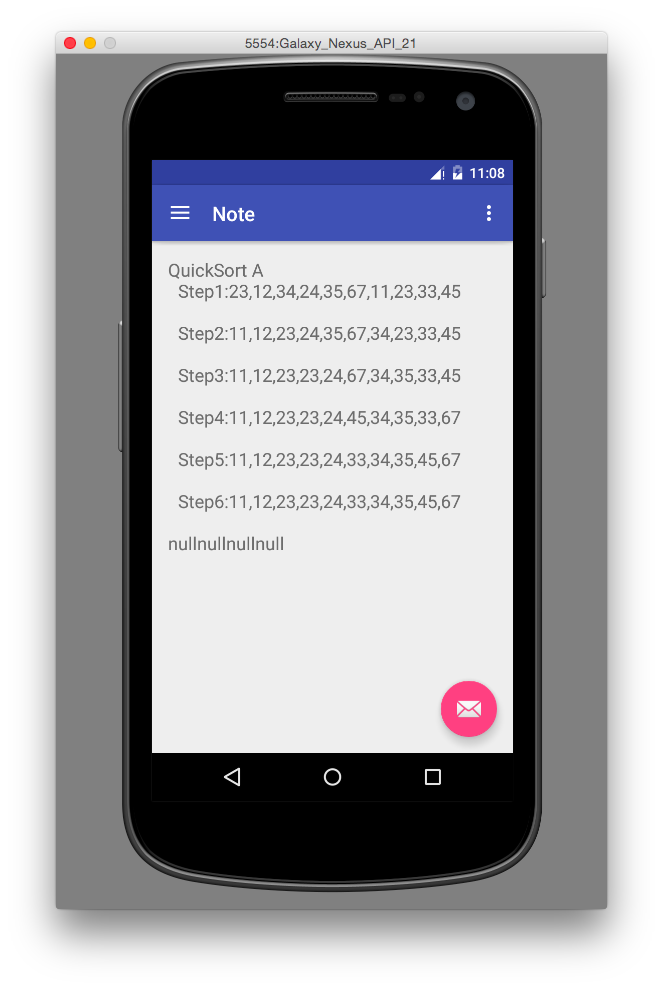
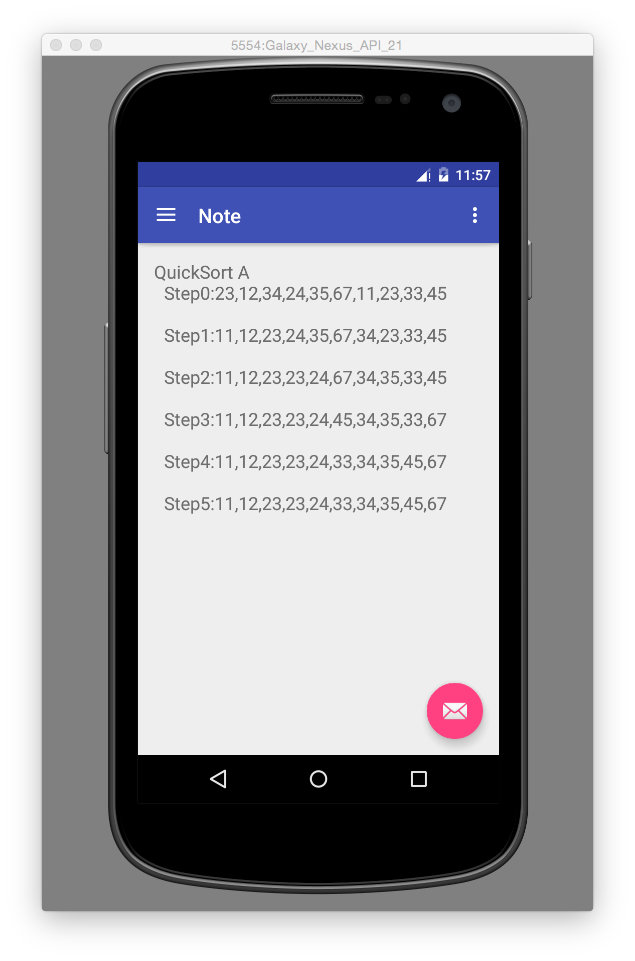
add MergeSort and RadixSort.

Changed region(s): [[0.0598, 0.0312, 0.9575, 0.9677]]

diff --git a/algorithm/src/main/java/com/vise/algorithm/MergeSortUtil.java b/algorithm/src/main/java/com/vise/algorithm/MergeSortUtil.java
@@ -1,0 +1,104 @@
+package com.vise.algorithm;
+
+/**
+ * 归并排序
+ * Created by xyy on 16/6/22.
+ */
+public class MergeSortUtil {
+
+    public static StringBuilder[] stringBuilders;
+
+    public static int[] mergeSortTest(int[] A){
+        if(A == null || A.length <= 1){
+            return A;
+        }
+        stringBuilders = new StringBuilder[(int) Math.ceil(Math.sqrt(A.length))];
+        mergeSortTest(A, 0, A.length-1, (int) Math.ceil(Math.sqrt(A.length)));
+        return A;
+    }
+
+    public static int[] mergeSortTest(int[] A, int low, int high, int i){
+        int mid = (low + high) / 2;
+        if (low < high) {
+            i--;
+            mergeSortTest(A, low, mid, i);
+            mergeSortTest(A, mid + 1, high, i);
+            mergeTest(A, low, mid, high, i);
+        }
+        return A;
+    }
+
+    private static void mergeTest(int[] A, int low, int mid, int high, int index){
+        int[] temp = new int[high-low+1];
+        int i = low;
+        int j = mid + 1;
+        int k = 0;
+        while (i <= mid && j <= high) {
+            if (A[i] < A[j]) {
+                temp[k++] = A[i++];
+            } else {
+                temp[k++] = A[j++];
+            }
+        }
+        while (i <= mid) {
+            temp[k++] = A[i++];
+        }
+        while (j <= high) {
+            temp[k++] = A[j++];
+        }
+        for (int t = 0; t < temp.length; t++) {
+            A[t+low] = temp[t];
+        }
+        stringBuilders[index] = new StringBuilder();
+        stringBuilders[index].append("\tStep"+(index+1)+":");
+        for(int m = 0; m < A.length; m++){
+            stringBuilders[index].append(A[m]);
+            if(m != (A.length - 1)){
+                stringBuilders[index].append(",");
+            } else{
+                stringBuilders[index].append("\n\n");
+            }
+        }
+    }
+
+    public static int[] mergeSort(int[] A){
+        if(A == null || A.length <= 1){
+            return A;
+        }
+        mergeSort(A, 0, A.length-1);
+        return A;
+    }
+
+    private static int[] mergeSort(int[] A, int low, int high){
+        int mid = (low + high) / 2;
+        if (low < high) {
+            mergeSort(A, low, mid);
+            mergeSort(A, mid + 1, high);
+            merge(A, low, mid, high);
+        }
+        return A;
+    }
+
+    private static void merge(int[] A, int low, int mid, int high){
+        int[] temp = new int[high-low+1];
+        int i = low;
+        int j = mid + 1;
+        int k = 0;
+        while (i <= mid && j <= high) {
+            if (A[i] < A[j]) {
+                temp[k++] = A[i++];
+            } else {
+                temp[k++] = A[j++];
+            }
+        }
+        while (i <= mid) {
+            temp[k++] = A[i++];
+        }
+        while (j <= high) {
+            temp[k++] = A[j++];
+        }
+        for (int t = 0; t < temp.length; t++) {
+            A[t+low] = temp[t];
+        }
+    }
+}

diff --git a/algorithm/src/main/java/com/vise/algorithm/RadixSortUtil.java b/algorithm/src/main/java/com/vise/algorithm/RadixSortUtil.java
@@ -1,0 +1,73 @@
+package com.vise.algorithm;
+
+import java.util.Arrays;
+
+/**
+ * 基数排序
+ * Created by xyy on 16/6/22.
+ */
+public class RadixSortUtil {
+
+    public static StringBuilder[] stringBuilders;
+
+    public static int[] radixSort(int[] A, int radix, int d){
+        if(A == null || A.length <= 1){
+            return A;
+        }
+        int[] tmp = new int[A.length];
+        int[] buckets = new int[radix];
+        for (int i = 0, rate = 1; i < d; i++) {
+            Arrays.fill(buckets, 0);
+            System.arraycopy(A, 0, tmp, 0, A.length);
+            for (int j = 0; j < A.length; j++) {
+                int subKey = (tmp[j] / rate) % radix;
+                buckets[subKey]++;
+            }
+            for (int j = 1; j < radix; j++) {
+                buckets[j] = buckets[j] + buckets[j - 1];
+            }
+            for (int m = A.length - 1; m >= 0; m--) {
+                int subKey = (tmp[m] / rate) % radix;
+                A[--buckets[subKey]] = tmp[m];
+            }
+            rate *= radix;
+        }
+        return A;
+    }
+
+    public static int[] radixSortTest(int[] A, int radix, int d){
+        if(A == null || A.length <= 1){
+            return A;
+        }
+        int[] tmp = new int[A.length];
+        int[] buckets = new int[radix];
+        stringBuilders = new StringBuilder[d];
+        for (int i = 0, rate = 1; i < d; i++) {
+            Arrays.fill(buckets, 0);
+            System.arraycopy(A, 0, tmp, 0, A.length);
+            for (int j = 0; j < A.length; j++) {
+                int subKey = (tmp[j] / rate) % radix;
+                buckets[subKey]++;
+            }
+            for (int j = 1; j < radix; j++) {
+                buckets[j] = buckets[j] + buckets[j - 1];
+            }
+            for (int m = A.length - 1; m >= 0; m--) {
+                int subKey = (tmp[m] / rate) % radix;
+                A[--buckets[subKey]] = tmp[m];
+            }
+            rate *= radix;
+            stringBuilders[i] = new StringBuilder();
+            stringBuilders[i].append("\tStep"+(i+1)+":");
+            for(int k = 0; k < A.length; k++){
+                stringBuilders[i].append(A[k]);
+                if(k != (A.length - 1)){
+                    stringBuilders[i].append(",");
+                } else{
+                    stringBuilders[i].append("\n\n");
+                }
+            }
+        }
+        return A;
+    }
+}

diff --git a/app/src/main/java/com/vise/note/MainActivity.java b/app/src/main/java/com/vise/note/MainActivity.java
@@ -18,7 +18,9 @@ import android.widget.TextView;
 import com.vise.algorithm.BubbleSortUtil;
 import com.vise.algorithm.HeapSortUtil;
 import com.vise.algorithm.InsertionSortUtil;
+import com.vise.algorithm.MergeSortUtil;
 import com.vise.algorithm.QuickSortUtil;
+import com.vise.algorithm.RadixSortUtil;
 import com.vise.algorithm.SelectionSortUtil;
 import com.vise.algorithm.ShellSortUtil;
 
@@ -63,6 +65,30 @@ public class MainActivity extends AppCompatActivity
 //        shellSortTest(A);
 //        heapSortTest(A);
         quickSortTest(A);
+//        radixSortTest(A);
+//        mergeSortTest(A);
+    }
+
+    private void mergeSortTest(int[] A) {
+        MergeSortUtil.mergeSortTest(A);
+        StringBuilder stringBuilder = new StringBuilder();
+        StringBuilder[] stringBuilders = MergeSortUtil.stringBuilders;
+        stringBuilder.append("MergeSort A\n");
+        for(int i = 0; i < stringBuilders.length; i++){
+            stringBuilder.append(stringBuilders[i]);
+        }
+        sortTv.setText(stringBuilder);
+    }
+
+    private void radixSortTest(int[] A) {
+        RadixSortUtil.radixSortTest(A, 10, 2);
+        StringBuilder stringBuilder = new StringBuilder();
+        StringBuilder[] stringBuilders = RadixSortUtil.stringBuilders;
+        stringBuilder.append("RadixSort A\n");
+        for(int i = 0; i < stringBuilders.length; i++){
+            stringBuilder.append(stringBuilders[i]);
+        }
+        sortTv.setText(stringBuilder);
     }
 
     private void quickSortTest(int[] A) {
@@ -71,7 +97,9 @@ public class MainActivity extends AppCompatActivity
         StringBuilder[] stringBuilders = QuickSortUtil.stringBuilders;
         stringBuilder.append("QuickSort A\n");
         for(int i = 0; i < stringBuilders.length; i++){
-            stringBuilder.append(stringBuilders[i]);
+            if(stringBuilders[i] != null){
+                stringBuilder.append(stringBuilders[i]);
+            }
         }
         sortTv.setText(stringBuilder);
     }
